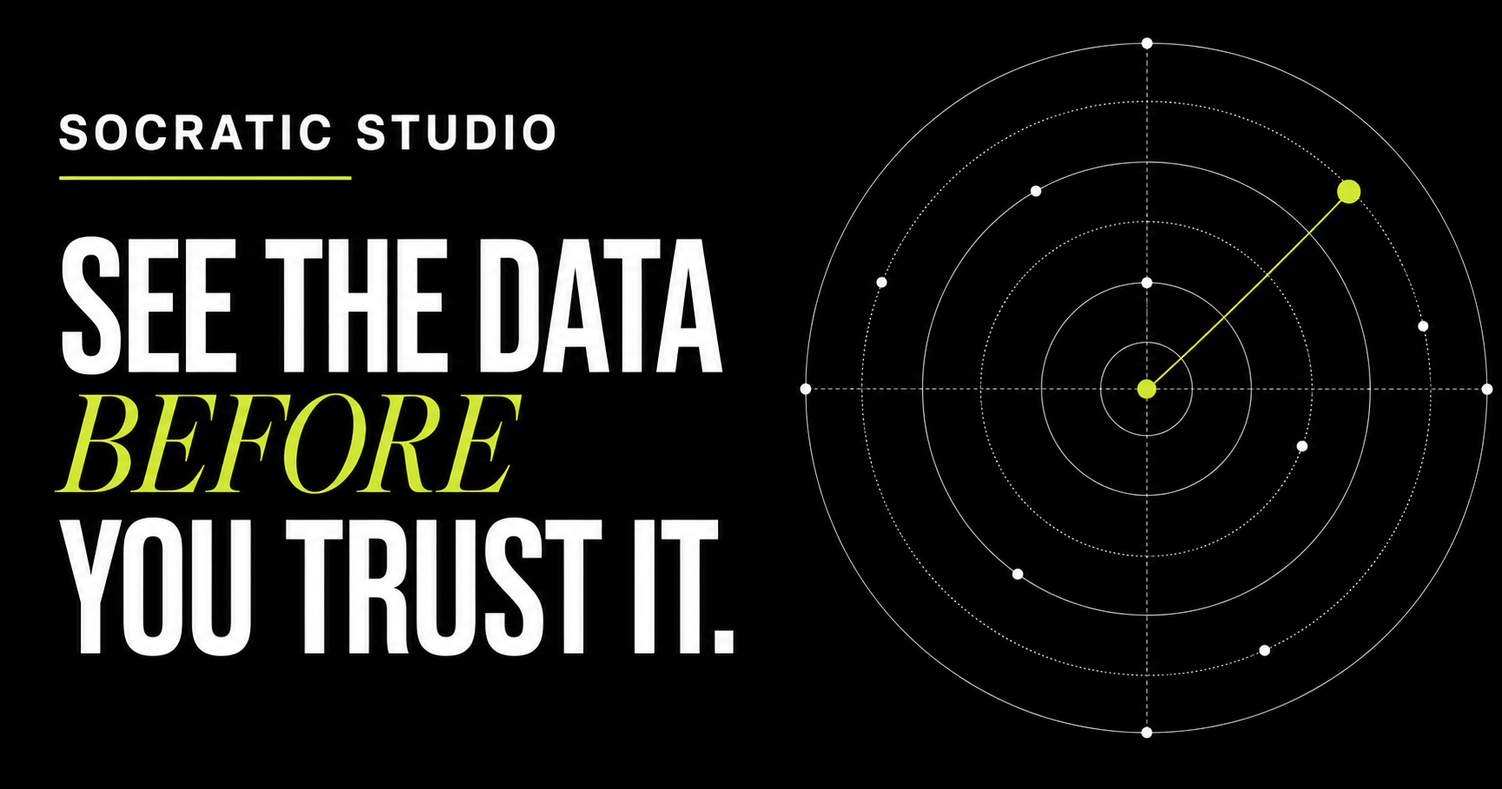
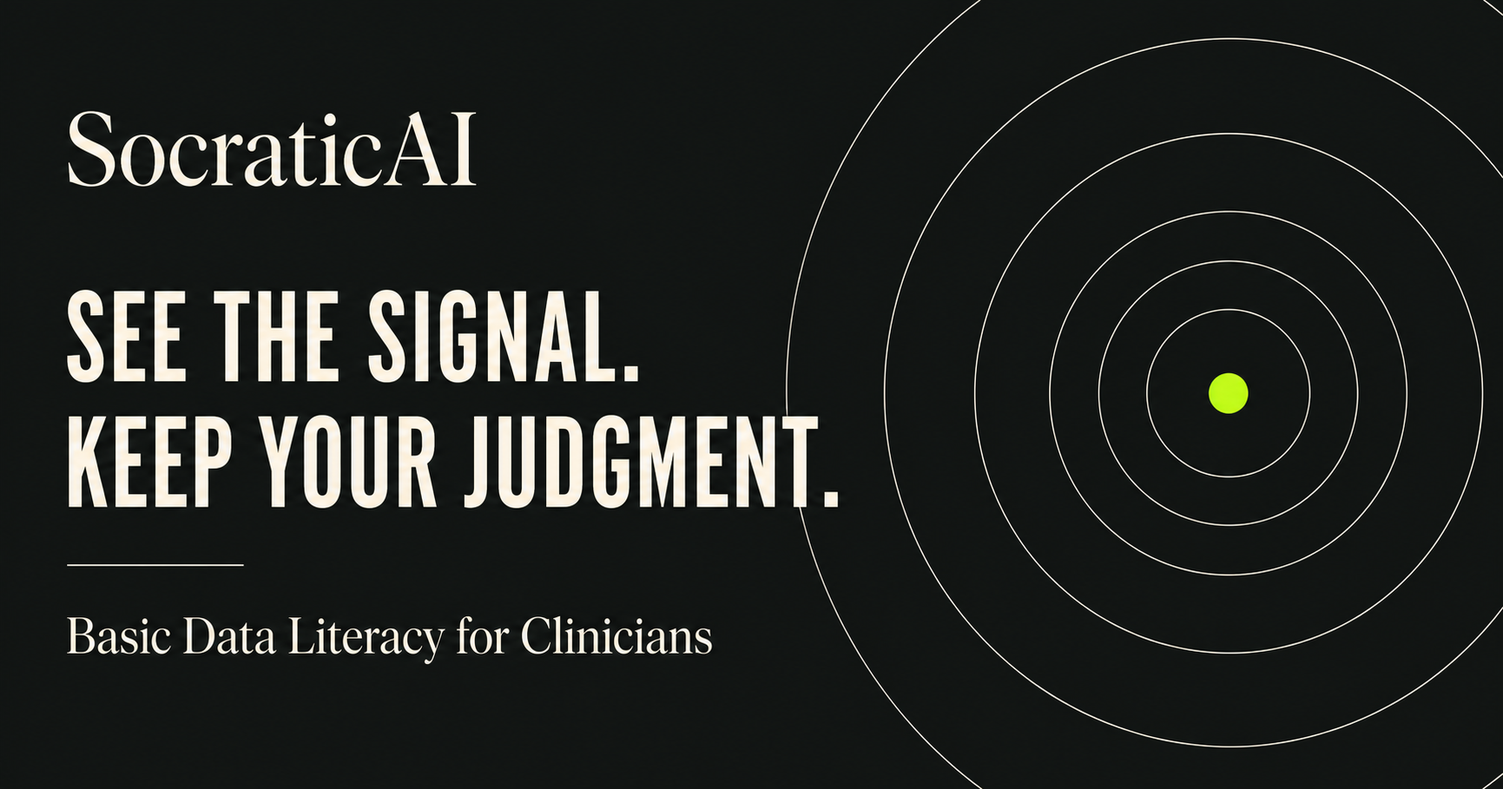
Elevate SocraticAI visual identity and learning experience

diff --git a/app/course.css b/app/course.css
@@ -1,2 +1,14 @@
-@import url('https://fonts.googleapis.com/css2?family=DM+Sans:wght@400;500;600;700&family=Source+Serif+4:opsz,wght@8..60,500;8..60,600&display=swap');
-:root{--blue:#1f67ef;--navy:#102a58;--ink:#20242c;--muted:#637083;--line:#dde2ea;--soft:#f6f8fb;--green:#278455;--red:#c33f45}.course-app{min-height:100vh;background:#fff;color:var(--ink);font-family:'DM Sans',Arial,sans-serif}.app-header{height:64px;border-bottom:1px solid var(--line);display:flex;align-items:center;padding:0 28px;gap:30px;background:#fff}.app-brand{border:0;background:none;color:var(--navy);font-size:18px;font-weight:700;cursor:pointer}.app-brand span{color:#20a874;margin-right:7px}.header-path{font-size:13px;color:var(--muted)}.header-path b{color:#a3acb9;margin:0 9px}.header-progress{margin-left:auto;display:flex;align-items:center;gap:12px;font-size:12px}.header-progress i,.sidebar-mastery i{display:block;width:150px;height:6px;background:#e4e8ee;border-radius:99px;overflow:hidden}.header-progress b,.sidebar-mastery em{display:block;height:100%;background:#7954d8;border-radius:99px}.course-sidebar{position:fixed;top:64px;left:0;bottom:0;width:300px;background:#f8f9fb;border-right:1px solid var(--line);padding:22px 16px;overflow:auto}.course-title{display:flex;gap:12px;align-items:center;padding:0 10px 19px;border-bottom:1px solid var(--line)}.course-mark{width:38px;height:38px;border-radius:9px;background:#e7efff;color:var(--blue);display:grid;place-items:center;font-size:25px}.course-title b{display:block;font-size:15px}.course-title small,.sidebar-lessons small{display:block;font-size:9px;letter-spacing:.08em;color:var(--muted);margin-top:4px}.sidebar-label{font-size:10px;letter-spacing:.1em;color:var(--muted);margin:24px 10px 7px}.course-sidebar h2{font-size:18px;margin:0 10px 7px}.sidebar-copy{font-size:12px;line-height:1.45;color:var(--muted);margin:0 10px 17px}.sidebar-lessons button{border:0;border-top:1px solid var(--line);width:100%;background:transparent;padding:14px 10px;display:grid;grid-template-columns:39px 1fr;gap:8px;text-align:left;cursor:pointer}.sidebar-lessons button.active{background:#eaf1ff;box-shadow:inset 4px 0 var(--blue)}.sidebar-lessons button.done span{color:var(--green)}.sidebar-lessons button>span{font-size:10px;color:#77849a;padding-top:2px}.sidebar-lessons p{font-size:13px;font-weight:600;margin:0}.sidebar-mastery{margin:26px 10px 0;border-top:1px solid var(--line);padding-top:17px}.sidebar-mastery span{font-size:9px;letter-spacing:.09em;color:var(--muted)}.sidebar-mastery b{float:right;font-size:13px}.sidebar-mastery i{width:100%;margin-top:10px}.course-main{margin-left:300px;padding:56px max(6vw,54px) 80px;max-width:1390px}.course-hero{padding-bottom:34px;border-bottom:1px solid var(--line)}.course-hero p,.notes-screen>p{font-size:10px;letter-spacing:.1em;color:var(--muted);font-weight:700}.course-hero h1,.notes-screen h1{font-size:43px;letter-spacing:-.045em;margin:9px 0 13px}.course-hero>span{display:block;max-width:650px;font:20px/1.45 'Source Serif 4',Georgia,serif;color:#3f4755}.about-unit{border:1px solid var(--line);border-radius:8px;margin:28px 0;padding:25px 28px;max-width:920px}.about-unit h2,.skill-list h2{font-size:21px;margin:0 0 14px}.about-unit p{font-size:14px;line-height:1.6;margin:0;color:#4e5868}.skill-list{max-width:920px}.skill-list button{border:1px solid var(--line);border-radius:7px;background:#fff;width:100%;padding:18px 20px;margin:10px 0;display:flex;align-items:center;gap:15px;text-align:left;cursor:pointer}.skill-list button:hover{border-color:#8ab0f8;background:#fbfdff}.skill-icon{width:29px;height:29px;border:1px solid #aeb8c7;border-radius:5px;display:grid;place-items:center;color:#5f6f86}.skill-icon.complete{background:#eaf7ef;border-color:#4a9c70;color:var(--green)}.skill-list b{display:block;font-size:14px}.skill-list small{display:block;font-size:11px;color:var(--muted);margin-top:4px}.skill-list em{margin-left:auto;color:var(--blue);font-size:12px;font-style:normal;font-weight:600}.lesson-main{margin-left:300px;min-height:calc(100vh - 64px);padding:35px max(6vw,54px) 100px;position:relative;background:#fff}.lesson-breadcrumb{font-size:11px;letter-spacing:.07em;color:var(--muted);margin-bottom:28px}.lesson-breadcrumb span{margin:0 8px;color:#b1bac7}.lesson-card{width:min(690px,calc(100vw - 520px));padding-bottom:90px}.lesson-topline{display:flex;justify-content:space-between;color:var(--muted);font-size:10px;letter-spacing:.09em;font-weight:700}.lesson-card h1{font-size:35px;letter-spacing:-.04em;margin:16px 0}.lesson-prompt{font:23px/1.45 'Source Serif 4',Georgia,serif;margin:0 0 26px}.answer-list{display:grid;gap:10px}.answer-list button{border:1px solid #cfd7e3;background:#fff;border-radius:6px;padding:15px;display:flex;align-items:center;gap:13px;text-align:left;font-size:14px;line-height:1.4;cursor:pointer}.answer-list button:not(:disabled):hover{border-color:var(--blue);background:#f4f7ff}.answer-list span{width:25px;height:25px;border:1px solid #98a7ba;border-radius:50%;display:grid;place-items:center;font-size:10px;flex:none}.answer-list button.selected{border-color:var(--blue);background:#edf3ff}.answer-list button.selected span{background:var(--blue);border-color:var(--blue);color:#fff}.answer-list button.correct{border-color:#60a776;background:#eff8f1}.answer-list button.incorrect{border-color:#d46b6e;background:#fff2f2}.hint-box,.answer-feedback{margin-top:20px;border-left:4px solid #7b5ad7;background:#f4f2fc;padding:14px 16px}.hint-box b,.answer-feedback b{font-size:13px}.hint-box p,.answer-feedback p{font-size:13px;line-height:1.5;margin:5px 0 0}.answer-feedback.correct{border-color:#4b9b63;background:#eff8f1}.answer-feedback.incorrect{border-color:#ce565b;background:#fff2f2}.tutor-card{position:absolute;top:92px;right:max(4vw,36px);width:260px;background:#f4f7fb;border:1px solid var(--line);border-radius:8px;padding:24px}.tutor-icon{width:39px;height:39px;background:#7153c8;color:#fff;border-radius:50%;display:grid;place-items:center;font-size:19px}.tutor-card>p{font-size:9px;letter-spacing:.1em;color:var(--muted);font-weight:700;margin:20px 0 7px}.tutor-card h2{font-size:24px;line-height:1.05;margin:0 0 12px}.tutor-card>span:last-of-type{font-size:13px;line-height:1.5;color:#586475}.tutor-card div{border-top:1px solid var(--line);padding-top:14px;margin-top:22px}.tutor-card div b,.tutor-card div small{display:block;font-size:9px;letter-spacing:.08em}.tutor-card div small{font-size:11px;letter-spacing:0;color:var(--muted);margin-top:5px}.lesson-actions{position:fixed;z-index:3;bottom:0;left:300px;right:0;height:72px;border-top:1px solid var(--line);background:#fff;display:flex;align-items:center;padding:0 max(6vw,54px);gap:25px}.hint-link{border:0;background:none;color:#5d3ba0;text-decoration:underline;font-weight:600;cursor:pointer}.lesson-actions>span{font-size:12px;color:var(--muted);margin-left:auto}.check-button{border:0;border-radius:5px;background:var(--blue);color:#fff;padding:13px 19px;font-weight:700;cursor:pointer}.check-button:disabled{background:#c4ccd7;cursor:not-allowed}.check-button b{margin-left:21px}.notes-screen textarea{width:min(800px,100%);height:300px;border:1px solid var(--line);border-radius:7px;padding:18px;font:15px/1.5 inherit;resize:vertical}@media(max-width:1000px){.tutor-card{display:none}.lesson-card{width:min(700px,100%)}.lesson-main{padding-right:54px}}@media(max-width:720px){.app-header{padding:0 18px}.header-path{display:none}.course-sidebar{position:static;width:auto;padding:16px}.course-sidebar h2,.sidebar-copy,.sidebar-label,.sidebar-mastery{display:none}.sidebar-lessons{display:flex;overflow:auto}.sidebar-lessons button{min-width:180px;border:1px solid var(--line)}.course-main,.lesson-main{margin-left:0;padding:34px 22px 95px}.course-hero h1{font-size:34px}.lesson-card h1{font-size:30px}.lesson-prompt{font-size:20px}.lesson-actions{left:0;padding:0 18px;gap:10px}.lesson-actions>span{display:none}.check-button{margin-left:auto}.header-progress{display:none}}
+@import url('https://fonts.googleapis.com/css2?family=DM+Mono:wght@400;500&family=DM+Sans:opsz,wght@9..40,400;9..40,500;9..40,600;9..40,700&family=Instrument+Serif:ital@0;1&display=swap');
+
+.course-app{--ink:#121513;--paper:#f5f4ef;--bone:#e8e7df;--mist:#deddd5;--lime:#d5ff39;--mint:#a9ffb8;--fade:#777a70;--purple:#7255e8;min-height:100vh;background:var(--paper);color:var(--ink);font-family:'DM Sans',Arial,sans-serif}.course-app *{box-sizing:border-box}.course-app button{font-family:inherit}.app-header{height:76px;padding:0 38px;background:#111512;color:#f8f8f2;display:flex;align-items:center;justify-content:space-between;border-bottom:1px solid #313530;position:relative;z-index:10}.app-brand{display:flex;align-items:center;gap:11px;border:0;background:transparent;color:#faf9f1;font-weight:700;font-size:18px;letter-spacing:-.04em;cursor:pointer}.app-brand>span>span{color:var(--lime)}.brand-orbit{width:28px;height:28px;border:1px solid rgba(255,255,255,.7);border-radius:50%;display:grid;place-items:center;position:relative}.brand-orbit:before{content:'';position:absolute;inset:5px;border:1px solid rgba(255,255,255,.42);border-radius:50%}.brand-orbit i{width:7px;height:7px;border-radius:50%;background:var(--lime);display:block;box-shadow:0 0 0 4px rgba(213,255,57,.12)}.app-header nav{position:absolute;left:50%;transform:translateX(-50%);display:flex;gap:31px}.app-header nav button{border:0;background:transparent;color:#aeb1aa;font:500 12px 'DM Mono',monospace;letter-spacing:.03em;cursor:pointer;padding:9px 0}.app-header nav button.active,.app-header nav button:hover{color:#fff;border-bottom:1px solid var(--lime)}.header-progress{display:flex;align-items:center;gap:13px;font:11px 'DM Mono',monospace;color:#b6b8ae}.header-progress b{color:var(--lime);font-weight:500}.header-progress i,.mastery-block i,.rail-progress i{display:block;width:80px;height:3px;background:#373b35;overflow:hidden}.header-progress i b,.mastery-block i em,.rail-progress i strong{display:block;height:100%;background:var(--lime)}.profile-dot{border:1px solid #4a4e47;background:#202520;color:var(--lime);border-radius:50%;width:30px;height:30px;font:10px 'DM Mono',monospace;cursor:pointer}
+
+.home-screen{min-height:calc(100vh - 76px);display:grid;grid-template-columns:minmax(0,1.07fr) minmax(450px,.93fr);grid-template-rows:1fr auto;background:var(--paper);overflow:hidden;position:relative}.home-copy{padding:clamp(68px,11vh,142px) 0 60px clamp(38px,9vw,150px);position:relative;z-index:2}.eyebrow{font:500 10px 'DM Mono',monospace;letter-spacing:.12em;margin:0;color:#686c62}.eyebrow i{display:inline-block;width:8px;height:8px;background:var(--lime);border-radius:50%;margin-right:10px;vertical-align:-1px}.home-copy h1,.course-main h1,.notes-screen h1{font-size:clamp(54px,6vw,94px);font-weight:500;letter-spacing:-.075em;line-height:.88;margin:27px 0 28px;max-width:700px}.home-copy h1 em,.course-main h1 em,.notes-screen h1 em,.course-sidebar h2 em,.rail-title h2 em,.tutor-card h2 em{font-family:'Instrument Serif',Georgia,serif;font-weight:400;letter-spacing:-.04em}.home-intro{font-size:17px;line-height:1.6;max-width:460px;color:#53574f;margin:0}.home-actions{display:flex;align-items:center;gap:23px;margin-top:40px}.primary-button,.check-button{background:var(--ink);border:0;color:#fff;padding:16px 20px;font-size:13px;font-weight:700;cursor:pointer}.primary-button span,.check-button span{margin-left:32px;color:var(--lime);font-size:17px}.text-button{border:0;background:transparent;text-decoration:underline;text-underline-offset:4px;color:var(--ink);font-size:13px;font-weight:600;cursor:pointer}.text-button span{font-size:17px;margin-left:6px}.home-orbit{background:#121513;color:#fff;display:flex;flex-direction:column;align-items:center;justify-content:center;position:relative;overflow:hidden}.home-orbit:before,.home-orbit:after{content:'';position:absolute;border:1px solid rgba(255,255,255,.08);border-radius:50%;width:920px;height:920px}.home-orbit:after{width:640px;height:640px}.home-orbit>p{position:absolute;top:38px;left:43px;font:10px/1.45 'DM Mono',monospace;letter-spacing:.1em;color:#b7bbb1}.orbit-outer,.orbit-middle,.orbit-inner{border:1px solid rgba(255,255,255,.54);border-radius:50%;display:grid;place-items:center}.orbit-outer{width:min(34vw,480px);height:min(34vw,480px);position:relative}.orbit-middle{width:68%;height:68%}.orbit-inner{width:48%;height:48%;background:#1a1f1b}.orbit-inner strong{font-size:clamp(14px,1.4vw,22px);line-height:.84;text-align:center;letter-spacing:-.08em}.orbit-pulse{width:16px;height:16px;border-radius:50%;background:var(--lime);position:absolute;transform:translate(10vw,-7vw);box-shadow:0 0 0 9px rgba(213,255,57,.15),0 0 44px rgba(213,255,57,.4)}.home-footer{grid-column:1/-1;border-top:1px solid #d9d8d0;padding:20px clamp(38px,9vw,150px);display:grid;grid-template-columns:1fr 1.5fr 1fr;gap:24px;align-items:center;font:11px 'DM Mono',monospace}.home-footer span{color:#5e615a}.home-footer p{margin:0;line-height:1.5;color:#545850}.home-footer button{justify-self:end;border:0;background:transparent;font:500 11px 'DM Mono',monospace;cursor:pointer;text-decoration:underline;text-underline-offset:4px}.home-footer button span{font-size:16px;margin-left:9px;color:var(--ink)}
+
+.course-screen{min-height:calc(100vh - 76px);display:grid;grid-template-columns:360px 1fr}.course-sidebar{background:#171b18;color:#e9ebe2;padding:58px 45px;display:flex;flex-direction:column}.course-kicker{font:10px 'DM Mono',monospace;color:#b4b8ac;letter-spacing:.08em}.course-kicker span{float:right;color:var(--lime)}.course-sidebar h2{font-size:54px;line-height:.83;letter-spacing:-.07em;font-weight:500;margin:45px 0 20px}.course-sidebar>p{font-size:14px;line-height:1.6;color:#a6aaa1;max-width:220px}.mastery-block{margin-top:48px;border-top:1px solid #373c36;padding-top:17px}.mastery-block div{display:flex;justify-content:space-between;font:10px 'DM Mono',monospace;letter-spacing:.05em}.mastery-block b{color:var(--lime);font-weight:500}.mastery-block i{width:100%;margin-top:15px}.course-sidebar footer{font:10px/1.5 'DM Mono',monospace;margin-top:auto;color:#8c9188}.course-sidebar footer span{color:var(--lime);margin-right:8px}.course-main{padding:clamp(55px,9vh,115px) clamp(40px,9vw,145px) 80px;max-width:1240px}.course-main h1{font-size:clamp(53px,5.8vw,88px);margin-top:24px}.course-intro{color:#575b53;max-width:530px;line-height:1.6;font-size:16px}.module-meta{display:flex;gap:0;margin:40px 0 36px;border-top:1px solid #cdcec5;border-bottom:1px solid #cdcec5;padding:14px 0;font:10px 'DM Mono',monospace;color:#686d65}.module-meta span{padding:0 18px;border-right:1px solid #cdcec5}.module-meta span:first-child{padding-left:0}.skill-list{border-top:1px solid var(--ink)}.skill-list button{width:100%;border:0;border-bottom:1px solid #cacbc2;background:transparent;display:grid;grid-template-columns:58px 1fr auto;align-items:center;gap:16px;padding:21px 0;text-align:left;cursor:pointer;color:var(--ink);transition:padding .22s,background .22s}.skill-list button:hover{padding-left:14px;background:#edede6}.skill-number{font:11px 'DM Mono',monospace;color:#74786f}.skill-number.complete{color:#518a52}.skill-list small{font:10px 'DM Mono',monospace;color:#777c73;letter-spacing:.08em}.skill-list b{display:block;font-size:21px;letter-spacing:-.04em;margin:5px 0}.skill-list p{font-size:12px;color:#6d7169;margin:0}.skill-list em{font-size:12px;font-style:normal;font-weight:700}.skill-list em span{margin-left:15px;color:#9c9f96;font-size:18px}
+
+.lesson-screen{min-height:calc(100vh - 76px);display:grid;grid-template-columns:295px 1fr;background:#eae9e1}.lesson-rail{background:#171b18;color:#e9ebe2;padding:28px 27px;display:flex;flex-direction:column}.rail-back{align-self:flex-start;border:0;background:transparent;color:#d9ddd3;font:10px 'DM Mono',monospace;cursor:pointer;padding:0}.rail-back span{margin-left:8px;text-decoration:underline;text-underline-offset:3px}.rail-mark{display:flex;align-items:center;gap:10px;margin:56px 0 33px}.rail-mark p{font:10px/1.2 'DM Mono',monospace;letter-spacing:.07em;margin:0;color:#a7aba2}.rail-title>span,.rail-progress>span{font:10px 'DM Mono',monospace;letter-spacing:.1em;color:#9aa096}.rail-title h2{font-size:39px;line-height:.84;letter-spacing:-.07em;font-weight:500;margin:17px 0}.rail-title p{font-size:12px;line-height:1.55;color:#a1a69c;margin:0}.rail-progress{margin-top:48px}.rail-progress b{display:block;font-size:25px;letter-spacing:-.06em;margin:9px 0}.rail-progress b em{font-style:normal;color:#7d8379;font-size:15px}.rail-progress i{width:100%;margin-top:8px}.rail-list{margin-top:39px;border-top:1px solid #373c36}.rail-list button{width:100%;border:0;border-bottom:1px solid #373c36;color:#a5aaa0;background:transparent;text-align:left;padding:14px 4px;font-size:12px;cursor:pointer}.rail-list button span{display:inline-block;width:34px;font:10px 'DM Mono',monospace;color:#72786e}.rail-list button.active{color:var(--lime)}.lesson-workspace{position:relative;padding:47px clamp(32px,7vw,125px) 120px;background:var(--paper);min-width:0}.lesson-heading{display:flex;justify-content:space-between;align-items:center;margin-bottom:35px;max-width:760px}.lesson-heading>span{font:10px 'DM Mono',monospace;color:#656a61}.lesson-card{max-width:760px}.question-type{font:10px 'DM Mono',monospace;text-transform:uppercase;letter-spacing:.1em;color:#72776e;margin:0 0 14px}.lesson-card h1{font-size:clamp(45px,4vw,66px);line-height:.9;letter-spacing:-.075em;font-weight:500;margin:0 0 24px}.lesson-prompt{font:23px/1.32 'Instrument Serif',Georgia,serif;max-width:710px;margin:0 0 32px}.answer-list{display:grid;gap:9px}.answer-list button{border:1px solid #c7c8bf;background:#fafaf7;display:grid;grid-template-columns:38px 1fr;gap:13px;width:100%;padding:15px 18px;text-align:left;align-items:center;color:var(--ink);cursor:pointer;transition:.2s transform,.2s background,.2s border}.answer-list button:hover:not(:disabled){transform:translateX(5px);border-color:#5b6058;background:#fff}.answer-list button>span{width:24px;height:24px;border-radius:50%;border:1px solid #aeb2a9;display:grid;place-items:center;font:10px 'DM Mono',monospace}.answer-list button p{font-size:14px;line-height:1.4;margin:0}.answer-list button.selected{border-color:#1d211e;background:#eceee0}.answer-list button.selected>span{background:var(--ink);color:var(--lime);border-color:var(--ink)}.answer-list button.correct{background:#e4f7e2;border-color:#6e9f70}.answer-list button.incorrect{background:#f7e8e6;border-color:#bf7770}.hint-box,.answer-feedback{margin-top:19px;padding:17px 19px;border-left:4px solid var(--purple);background:#edebf8}.hint-box b,.answer-feedback b{font-size:13px}.hint-box p,.answer-feedback p{font-size:13px;line-height:1.55;margin:6px 0 0}.answer-feedback.correct{background:#e4f7e2;border-color:#6a9c6d}.answer-feedback.incorrect{background:#f7e8e6;border-color:#bd6d69}.tutor-card{position:absolute;right:clamp(30px,5vw,86px);top:104px;width:245px;background:#171b18;color:#f2f3eb;padding:24px}.tutor-badge{display:flex;gap:9px;align-items:center}.tutor-badge span{display:grid;place-items:center;width:29px;height:29px;border-radius:50%;background:var(--lime);color:#151915;font-size:15px}.tutor-badge p{font:10px 'DM Mono',monospace;letter-spacing:.07em;color:#bec3b8;margin:0}.tutor-card h2{font-size:34px;line-height:.9;font-weight:500;letter-spacing:-.07em;margin:26px 0 16px}.tutor-card>p{color:#aeb4aa;line-height:1.55;font-size:12px}.tutor-ask{width:100%;border:1px solid var(--lime);background:var(--lime);color:#161a16;padding:12px 13px;text-align:left;font-size:12px;font-weight:700;cursor:pointer;margin-top:12px}.tutor-ask span{float:right;font-size:15px}.tutor-ask:disabled{opacity:.7;cursor:wait}.tutor-reply{background:#252b25!important;color:#e8ece5!important;padding:12px!important;font-size:12px!important;line-height:1.5!important;margin:12px 0 0!important}.tutor-loop{border-top:1px solid #3a4039;margin-top:24px;padding-top:15px}.tutor-loop span{font:10px 'DM Mono',monospace;letter-spacing:.08em;color:#a6ada1}.tutor-loop p{font:10px/1.65 'DM Mono',monospace;color:#e0e4db}.tutor-loop b{color:var(--lime)}.lesson-actions{position:fixed;z-index:3;bottom:0;left:295px;right:0;height:79px;background:#f5f4ef;border-top:1px solid #cccdc4;display:flex;align-items:center;padding:0 clamp(32px,7vw,125px);gap:25px}.hint-link{border:0;background:transparent;color:var(--ink);font:11px 'DM Mono',monospace;text-decoration:underline;text-underline-offset:4px;cursor:pointer}.hint-link span{font-size:17px;margin-left:6px}.lesson-actions>p{margin-left:auto;font:10px 'DM Mono',monospace;color:#6a6f66}.check-button{padding:14px 17px}.check-button:disabled{background:#bbbeb5;color:#777b73;cursor:not-allowed}.check-button:disabled span{color:#777b73}
+
+.notes-screen{min-height:calc(100vh - 76px);padding:clamp(64px,12vh,150px) max(8vw,70px);background:var(--paper)}.notes-screen h1{font-size:clamp(56px,7vw,94px);margin:25px 0}.notes-screen>p:not(.eyebrow){max-width:490px;color:#575c54;line-height:1.6}.notes-screen textarea{display:block;margin-top:36px;width:min(800px,100%);min-height:280px;background:#fafaf7;border:1px solid #c5c7be;padding:22px;font:16px/1.5 'DM Sans',sans-serif;resize:vertical}.notes-tip{display:block;margin-top:12px;font:10px 'DM Mono',monospace;color:#646960}
+
+@media(max-width:1400px){.tutor-card{position:static;width:auto;margin-top:35px;max-width:760px}.lesson-workspace{padding-right:clamp(32px,7vw,125px)}.lesson-card{max-width:none}.lesson-heading{max-width:none}.lesson-actions{left:295px}.course-main{padding-right:60px}.home-screen{grid-template-columns:1fr 44%}.orbit-outer{width:360px;height:360px}}
+@media(max-width:760px){.app-header{height:66px;padding:0 20px}.app-header nav{display:none}.header-progress i,.header-progress>span{display:none}.home-screen{min-height:calc(100vh - 66px);display:block}.home-copy{padding:66px 25px 60px}.home-copy h1{font-size:57px}.home-orbit{height:390px}.orbit-outer{width:295px;height:295px}.home-footer{display:block;padding:19px 25px}.home-footer p{margin:12px 0}.home-footer button{padding:0}.course-screen,.lesson-screen{display:block}.course-sidebar{padding:37px 26px;min-height:360px}.course-main{padding:54px 25px}.course-main h1{font-size:55px}.module-meta{display:block}.module-meta span{display:block;border:0;padding:6px 0}.skill-list b{font-size:18px}.lesson-rail{padding:25px}.rail-mark{margin:36px 0 25px}.rail-progress,.rail-list{display:none}.lesson-workspace{padding:42px 22px 112px}.lesson-heading{margin-bottom:28px}.lesson-heading>span{display:none}.lesson-card h1{font-size:48px}.lesson-prompt{font-size:22px}.answer-list button{padding:14px}.lesson-actions{left:0;height:75px;padding:0 21px;gap:12px}.lesson-actions>p{display:none}.check-button{margin-left:auto;padding:14px 15px}.notes-screen{padding:70px 25px}.notes-screen h1{font-size:60px}}

diff --git a/app/page.tsx b/app/page.tsx
@@ -5,14 +5,14 @@ import { useState } from "react";
 type Lesson = { id: string; unit: string; title: string; kind: string; prompt: string; choices: string[]; correct: number; explanation: string; hint: string };
 
 const lessons: Lesson[] = [
-  { id: "1.1", unit: "START HERE", title: "Spot the shape of a distribution", kind: "Quick check", prompt: "A length-of-stay dataset has a mean of 4 days and a median of 2 days. What is the best interpretation?", choices: ["The distribution is perfectly symmetric.", "A few longer stays may be pulling the mean upward.", "Every patient stayed exactly 2 days.", "The median is necessarily a data-entry error."], correct: 1, explanation: "Correct. When the mean is above the median, a smaller number of high values often pulls the average upward. This is a common sign of right skew.", hint: "Ask which summary measure is most affected by unusually large values." },
-  { id: "1.2", unit: "DATA TYPES", title: "Identify the data type", kind: "Socratic lesson", prompt: "A discharge disposition is recorded as “home,” “skilled nursing facility,” or “hospice.” What kind of variable is this?", choices: ["Continuous, because the options describe a range of outcomes.", "Ordinal, because each location has a fixed clinical ranking.", "Categorical, because the values are labels rather than measurements.", "Binary, because there are two kinds of patients."], correct: 2, explanation: "Correct. Discharge disposition is categorical. The values name groups; there is no universal numerical scale from home to hospice.", hint: "Does each value measure an amount, or does it name a group?" },
-  { id: "1.3", unit: "OUTLIERS", title: "Investigate before removing", kind: "Clinical scenario", prompt: "A patient record has a creatinine value of 14.0. What should you do first?", choices: ["Delete it automatically because it is an outlier.", "Replace it with the mean creatinine value.", "Check clinical context and related fields before deciding whether it is an error.", "Round it down because it is unusually high."], correct: 2, explanation: "Correct. Unusual does not mean wrong. A creatinine of 14.0 can be clinically plausible and vital to the analysis; inspect the record before applying any rule.", hint: "Separate an unusual observation from an impossible one." },
-  { id: "1.4", unit: "MISSINGNESS", title: "Ask why data are absent", kind: "Practice", prompt: "Blood-pressure values are missing mostly for patients who left the clinic early. Which statement is most accurate?", choices: ["The data are missing completely at random.", "The missingness may be related to patient behavior or clinical workflow and could bias results.", "Missing values never affect validity if the sample is large.", "The correct action is always to delete those rows."], correct: 1, explanation: "Correct. Missingness tied to leaving early is unlikely to be random. It can distort who is represented in the analysis and should be examined before imputation or deletion.", hint: "Could the reason a value is missing be connected to the patient or the care process?" },
+  { id: "01", unit: "READ DISTRIBUTIONS", title: "Spot the shape", kind: "Quick check", prompt: "A length-of-stay dataset has a mean of 4 days and a median of 2 days. What is the best interpretation?", choices: ["The distribution is perfectly symmetric.", "A few longer stays may be pulling the mean upward.", "Every patient stayed exactly 2 days.", "The median is necessarily a data-entry error."], correct: 1, explanation: "When the mean is above the median, a smaller number of high values often pulls the average upward. This is a common sign of right skew.", hint: "Which summary measure moves the most when unusually large values appear?" },
+  { id: "02", unit: "DATA TYPES", title: "Name the variable", kind: "Socratic lesson", prompt: "A discharge disposition is recorded as “home,” “skilled nursing facility,” or “hospice.” What kind of variable is this?", choices: ["Continuous, because the options describe a range of outcomes.", "Ordinal, because each location has a fixed clinical ranking.", "Categorical, because the values are labels rather than measurements.", "Binary, because there are two kinds of patients."], correct: 2, explanation: "Discharge disposition is categorical. The values name groups; there is no universal numerical scale from home to hospice.", hint: "Does each value measure an amount, or does it name a group?" },
+  { id: "03", unit: "OUTLIERS", title: "Investigate before removing", kind: "Clinical scenario", prompt: "A patient record has a creatinine value of 14.0. What should you do first?", choices: ["Delete it automatically because it is an outlier.", "Replace it with the mean creatinine value.", "Check clinical context and related fields before deciding whether it is an error.", "Round it down because it is unusually high."], correct: 2, explanation: "Unusual does not mean wrong. A creatinine of 14.0 can be clinically plausible and vital to the analysis; inspect the record before applying any rule.", hint: "Separate an unusual observation from an impossible one." },
+  { id: "04", unit: "MISSINGNESS", title: "Ask why data are absent", kind: "Practice", prompt: "Blood-pressure values are missing mostly for patients who left the clinic early. Which statement is most accurate?", choices: ["The data are missing completely at random.", "The missingness may be related to patient behavior or clinical workflow and could bias results.", "Missing values never affect validity if the sample is large.", "The correct action is always to delete those rows."], correct: 1, explanation: "Missingness tied to leaving early is unlikely to be random. It can distort who is represented in the analysis and should be examined before imputation or deletion.", hint: "Could the reason a value is missing be connected to the patient or the care process?" },
 ];
 
 export default function Home() {
-  const [screen, setScreen] = useState<"course" | "lesson" | "notes">("course");
+  const [screen, setScreen] = useState<"home" | "course" | "lesson" | "notes">("home");
   const [lessonIndex, setLessonIndex] = useState(0);
   const [choice, setChoice] = useState<number | null>(null);
   const [checked, setChecked] = useState(false);
@@ -32,16 +32,28 @@ export default function Home() {
     try {
       const response = await fetch("/api/tutor", { method: "POST", headers: { "Content-Type": "application/json" }, body: JSON.stringify({ question: lesson.prompt, learnerAnswer: choice === null ? "No option selected yet." : lesson.choices[choice], hintLevel: showHint ? 1 : 0 }) });
       const payload = (await response.json()) as { reply?: string };
-      setTutorReply(payload.reply || "Try selecting an answer, then ask me to help you test your reasoning.");
-    } catch { setTutorReply("I could not reach the tutor just now. You can still use the structured hint and answer explanation."); }
+      setTutorReply(payload.reply || "Choose an answer first, then ask me to help you test your reasoning.");
+    } catch { setTutorReply("The tutor is unavailable right now. You can still use the structured hint and answer explanation."); }
     finally { setTutorLoading(false); }
   }
 
   return <main className="course-app">
-    <header className="app-header"><button className="app-brand" onClick={() => setScreen("course")}><span>◉</span> SocraticAI</button><div className="header-path">Basic Data Literacy <b>/</b> Module 1</div><div className="header-progress"><span>{completed.length} / {lessons.length} skills</span><i><b style={{ width: `${mastery}%` }} /></i></div></header>
-    <aside className="course-sidebar"><div className="course-title"><span className="course-mark">⌁</span><div><b>Basic Data Literacy</b><small>4 UNITS · 4 SKILLS</small></div></div><p className="sidebar-label">MODULE 1</p><h2>Prepare & Explore</h2><p className="sidebar-copy">Build the habit of inspecting data before analysis.</p><div className="sidebar-lessons">{lessons.map((item, index) => <button key={item.id} className={`${screen === "lesson" && index === lessonIndex ? "active" : ""} ${completed.includes(index) ? "done" : ""}`} onClick={() => openLesson(index)}><span>{completed.includes(index) ? "✓" : item.id}</span><p>{item.title}<small>{item.kind}</small></p></button>)}</div><div className="sidebar-mastery"><span>MODULE MASTERY</span><b>{mastery}%</b><i><em style={{ width: `${mastery}%` }} /></i></div></aside>
-    {screen === "course" && <section className="course-main"><div className="course-hero"><p>MODULE 1 · DATA PREPARATION & EXPLORATION</p><h1>Prepare & Explore</h1><span>Before you model, compare, or conclude, learn to see the structure and limitations of the data in front of you.</span></div><section className="about-unit"><h2>About this module</h2><p>These four short lessons help clinicians identify data types, read distributions, investigate extreme values, and reason about missing information. Every skill includes an objective check and an explanation of the clinical reasoning behind it.</p></section><section className="skill-list"><h2>Module skills</h2>{lessons.map((item, index) => <button key={item.id} onClick={() => openLesson(index)}><span className={completed.includes(index) ? "skill-icon complete" : "skill-icon"}>{completed.includes(index) ? "✓" : "▹"}</span><div><b>{item.id} · {item.title}</b><small>{item.kind} · {item.unit}</small></div><em>{completed.includes(index) ? "Review" : index === 0 ? "Start" : "Practice"} →</em></button>)}</section></section>}
-    {screen === "lesson" && <section className="lesson-main"><div className="lesson-breadcrumb">MODULE 1 <span>›</span> {lesson.unit} <span>›</span> {lesson.title}</div><div className="lesson-card"><div className="lesson-topline"><span>{lesson.kind.toUpperCase()}</span><span>SKILL {lessonIndex + 1} OF {lessons.length}</span></div><h1>{lesson.title}</h1><p className="lesson-prompt">{lesson.prompt}</p><div className="answer-list">{lesson.choices.map((item, index) => <button key={item} disabled={checked} onClick={() => setChoice(index)} className={`${choice === index ? "selected" : ""} ${checked && index === lesson.correct ? "correct" : ""} ${checked && choice === index && index !== lesson.correct ? "incorrect" : ""}`}><span>{String.fromCharCode(65 + index)}</span>{item}</button>)}</div>{showHint && !checked && <div className="hint-box"><b>Hint</b><p>{lesson.hint}</p></div>}{checked && <div className={`answer-feedback ${isCorrect ? "correct" : "incorrect"}`}><b>{isCorrect ? "Correct — nice reasoning." : "Not quite — let’s correct the reasoning."}</b><p>{isCorrect ? lesson.explanation : `The best answer is ${String.fromCharCode(65 + lesson.correct)}. ${lesson.explanation}`}</p></div>}</div><aside className="tutor-card"><span className="tutor-icon">✦</span><p>SOCRATIC TUTOR</p><h2>Think first.<br/>Then check.</h2><span>I’ll help you test your reasoning and give hints only when you need them.</span><button className="tutor-ask" onClick={askTutor} disabled={tutorLoading}>{tutorLoading ? "Thinking…" : "Ask the tutor"}</button>{tutorReply && <p className="tutor-reply">{tutorReply}</p>}<div><b>LEARNING LOOP</b><small>Choose → Check → Understand → Apply</small></div></aside><footer className="lesson-actions"><button className="hint-link" onClick={() => setShowHint(true)}>Need a hint?</button><span>{checked ? (isCorrect ? "Ready for the next skill" : "Review the explanation, then try the next skill") : "Choose one answer"}</span><button className="check-button" disabled={choice === null} onClick={checked ? nextLesson : checkAnswer}>{checked ? (lessonIndex === lessons.length - 1 ? "Finish module" : "Continue") : "Check answer"} <b>→</b></button></footer></section>}
-    {screen === "notes" && <section className="course-main notes-screen"><p>YOUR NOTES</p><h1>Capture what changes your thinking.</h1><textarea placeholder="Write a clinical example, a question, or an insight from this module…" /></section>}
+    <header className="app-header">
+      <button className="app-brand" onClick={() => setScreen("home")} aria-label="SocraticAI home"><span className="brand-orbit"><i /></span><span>Socratic<span>AI</span></span></button>
+      <nav><button className={screen === "course" ? "active" : ""} onClick={() => setScreen("course")}>Course</button><button onClick={() => setScreen("notes")}>Notebook</button></nav>
+      <div className="header-progress"><span><b>{completed.length}</b> / 4 skills</span><i><b style={{ width: `${mastery}%` }} /></i><button className="profile-dot" aria-label="Profile">AK</button></div>
+    </header>
+
+    {screen === "home" && <section className="home-screen">
+      <div className="home-copy"><p className="eyebrow"><i /> BASIC DATA LITERACY FOR CLINICIANS</p><h1>See the signal.<br/><em>Keep your judgment.</em></h1><p className="home-intro">A Socratic learning studio for people who need to think clearly about data—not simply receive the answer.</p><div className="home-actions"><button className="primary-button" onClick={() => setScreen("course")}>Enter Module 01 <span>→</span></button><button className="text-button" onClick={() => openLesson(0)}>Start a quick diagnostic <span>↗</span></button></div></div>
+      <div className="home-orbit" aria-hidden="true"><p>MODULE<br/>01 / 04</p><div className="orbit-outer"><div className="orbit-middle"><div className="orbit-inner"><strong>DATA<br/>LITERACY</strong></div></div></div><span className="orbit-pulse" /></div>
+      <div className="home-footer"><span>01 — PREPARE & EXPLORE</span><p>Learn to read distributions, distinguish variables, investigate outliers, and reason about what is missing.</p><button onClick={() => setScreen("course")}>Explore the curriculum <span>↓</span></button></div>
+    </section>}
+
+    {screen === "course" && <section className="course-screen"><aside className="course-sidebar"><div className="course-kicker">YOUR PATH <span>01 / 04</span></div><h2>Prepare<br/><em>& explore.</em></h2><p>Build the habit of inspecting information before you analyze it.</p><div className="mastery-block"><div><span>MODULE MASTERY</span><b>{mastery}%</b></div><i><em style={{ width: `${mastery}%` }} /></i></div><footer><span>●</span> Learning is local to this device.</footer></aside><section className="course-main"><p className="eyebrow"><i /> MODULE 01 — FOUNDATIONS</p><h1>Begin with the data<br/><em>in front of you.</em></h1><p className="course-intro">Four practical skills for reading clinical data with care, clarity, and better questions.</p><div className="module-meta"><span>4 learning experiences</span><span>~12 minutes</span><span>Adaptive tutor enabled</span></div><div className="skill-list">{lessons.map((item, index) => <button key={item.id} onClick={() => openLesson(index)}><span className={`skill-number ${completed.includes(index) ? "complete" : ""}`}>{completed.includes(index) ? "✓" : item.id}</span><div><small>{item.unit}</small><b>{item.title}</b><p>{item.kind}</p></div><em>{completed.includes(index) ? "Review" : index === 0 ? "Begin" : "Explore"} <span>→</span></em></button>)}</div></section></section>}
+
+    {screen === "lesson" && <section className="lesson-screen"><aside className="lesson-rail"><button className="rail-back" onClick={() => setScreen("course")}>← <span>Back to module</span></button><div className="rail-mark"><span className="brand-orbit"><i /></span><p>SOCRATIC<br/>TUTOR</p></div><div className="rail-title"><span>MODULE 01</span><h2>Prepare<br/><em>& explore.</em></h2><p>A defensible answer begins with a careful question.</p></div><div className="rail-progress"><span>YOUR PROGRESS</span><b>{lessonIndex + 1}<em> / 4</em></b><i><strong style={{ width: `${((lessonIndex + 1) / lessons.length) * 100}%` }} /></i></div><div className="rail-list">{lessons.map((item, index) => <button key={item.id} className={lessonIndex === index ? "active" : ""} onClick={() => openLesson(index)}><span>{item.id}</span>{item.title}</button>)}</div></aside><section className="lesson-workspace"><div className="lesson-heading"><p className="eyebrow"><i /> {lesson.unit}</p><span>QUESTION {lessonIndex + 1} OF 4</span></div><article className="lesson-card"><p className="question-type">{lesson.kind}</p><h1>{lesson.title}</h1><p className="lesson-prompt">{lesson.prompt}</p><div className="answer-list">{lesson.choices.map((item, index) => <button key={item} disabled={checked} onClick={() => setChoice(index)} className={`${choice === index ? "selected" : ""} ${checked && index === lesson.correct ? "correct" : ""} ${checked && choice === index && index !== lesson.correct ? "incorrect" : ""}`}><span>{String.fromCharCode(65 + index)}</span><p>{item}</p></button>)}</div>{showHint && !checked && <div className="hint-box"><b>A nudge, not the answer</b><p>{lesson.hint}</p></div>}{checked && <div className={`answer-feedback ${isCorrect ? "correct" : "incorrect"}`}><b>{isCorrect ? "That’s it." : "Not quite yet."}</b><p>{isCorrect ? lesson.explanation : `The best answer is ${String.fromCharCode(65 + lesson.correct)}. ${lesson.explanation}`}</p></div>}</article><aside className="tutor-card"><div className="tutor-badge"><span>✦</span><p>SOCRATIC TUTOR</p></div><h2>Don’t rush<br/>the <em>why.</em></h2><p>I’ll challenge the reasoning, not just grade the result.</p><button className="tutor-ask" onClick={askTutor} disabled={tutorLoading}>{tutorLoading ? "Thinking…" : "Talk it through"} <span>↗</span></button>{tutorReply && <p className="tutor-reply">{tutorReply}</p>}<div className="tutor-loop"><span>LEARNING LOOP</span><p>Choose <b>→</b> Reason <b>→</b> Check <b>→</b> Apply</p></div></aside><footer className="lesson-actions"><button className="hint-link" onClick={() => setShowHint(true)}>Need a nudge? <span>+</span></button><p>{checked ? (isCorrect ? "Ready for what’s next" : "Read the explanation before continuing") : "Choose the best answer"}</p><button className="check-button" disabled={choice === null} onClick={checked ? nextLesson : checkAnswer}>{checked ? (lessonIndex === lessons.length - 1 ? "Finish module" : "Continue") : "Check answer"} <span>→</span></button></footer></section></section>}
+
+    {screen === "notes" && <section className="notes-screen"><p className="eyebrow"><i /> YOUR WORKING NOTEBOOK</p><h1>Make the ideas<br/><em>your own.</em></h1><p>Capture questions, clinical examples, and patterns you want to remember.</p><textarea placeholder="Write the thought you want to keep…" /><span className="notes-tip">TIP — Write one thing you noticed before one thing you learned.</span></section>}
   </main>;
 }

diff --git a/app/layout.tsx b/app/layout.tsx
@@ -8,7 +8,6 @@ import "./multiple-choice.css";
 import "./multiple-choice-fix.css";
 import "./multiple-choice-layout.css";
 import "./course.css";
-import "./tutor.css";
 
 const geistSans = Geist({
   variable: "--font-geist-sans",
